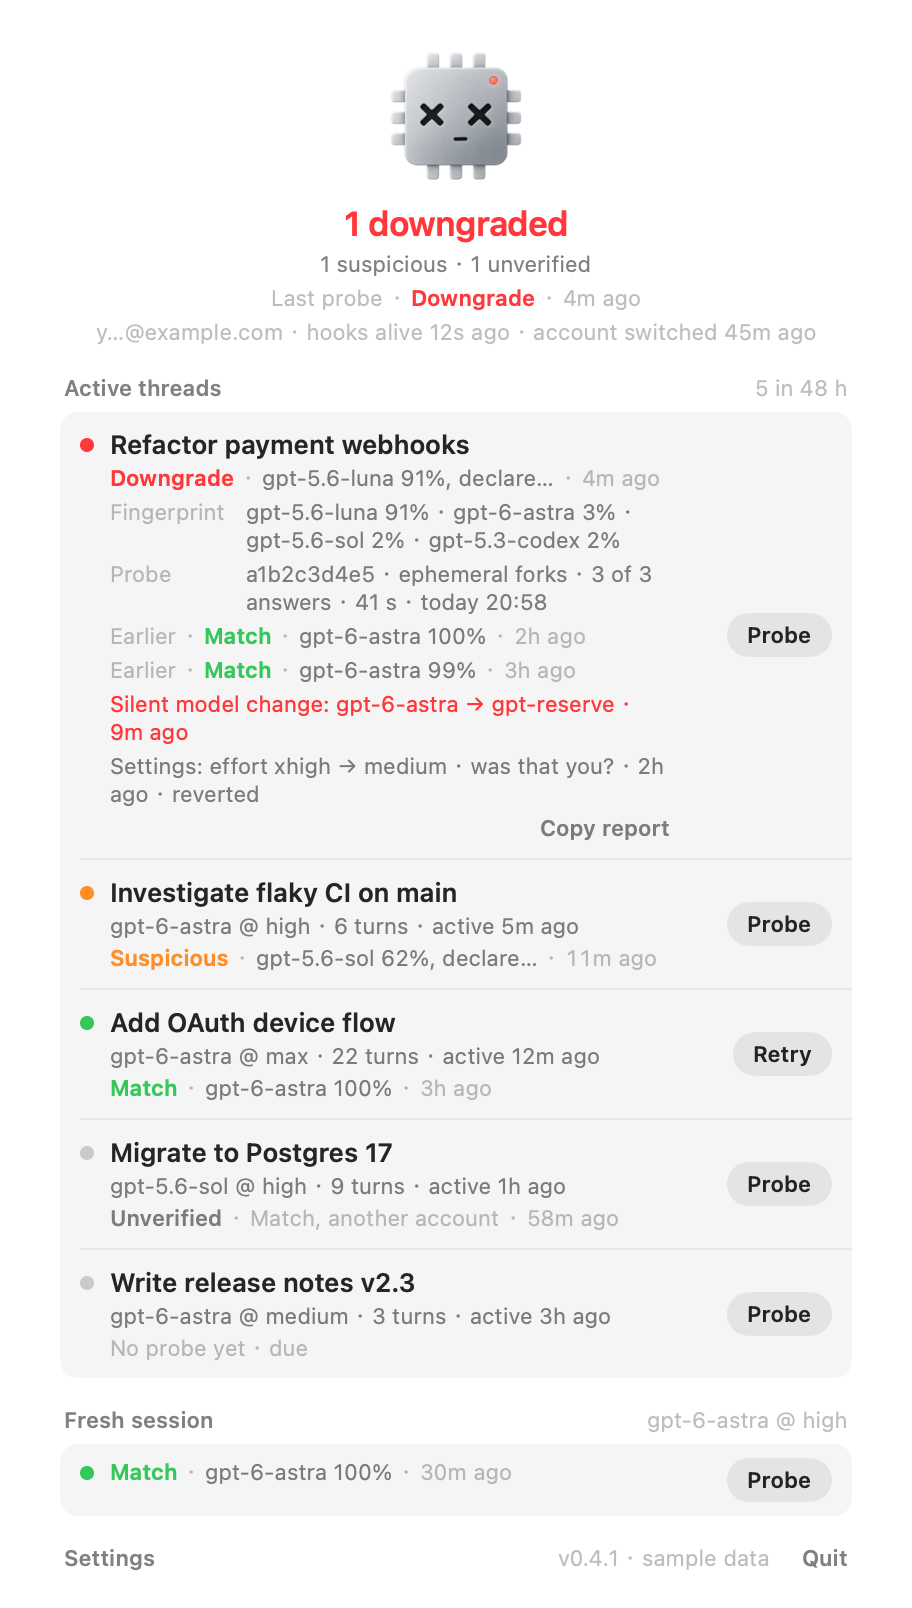
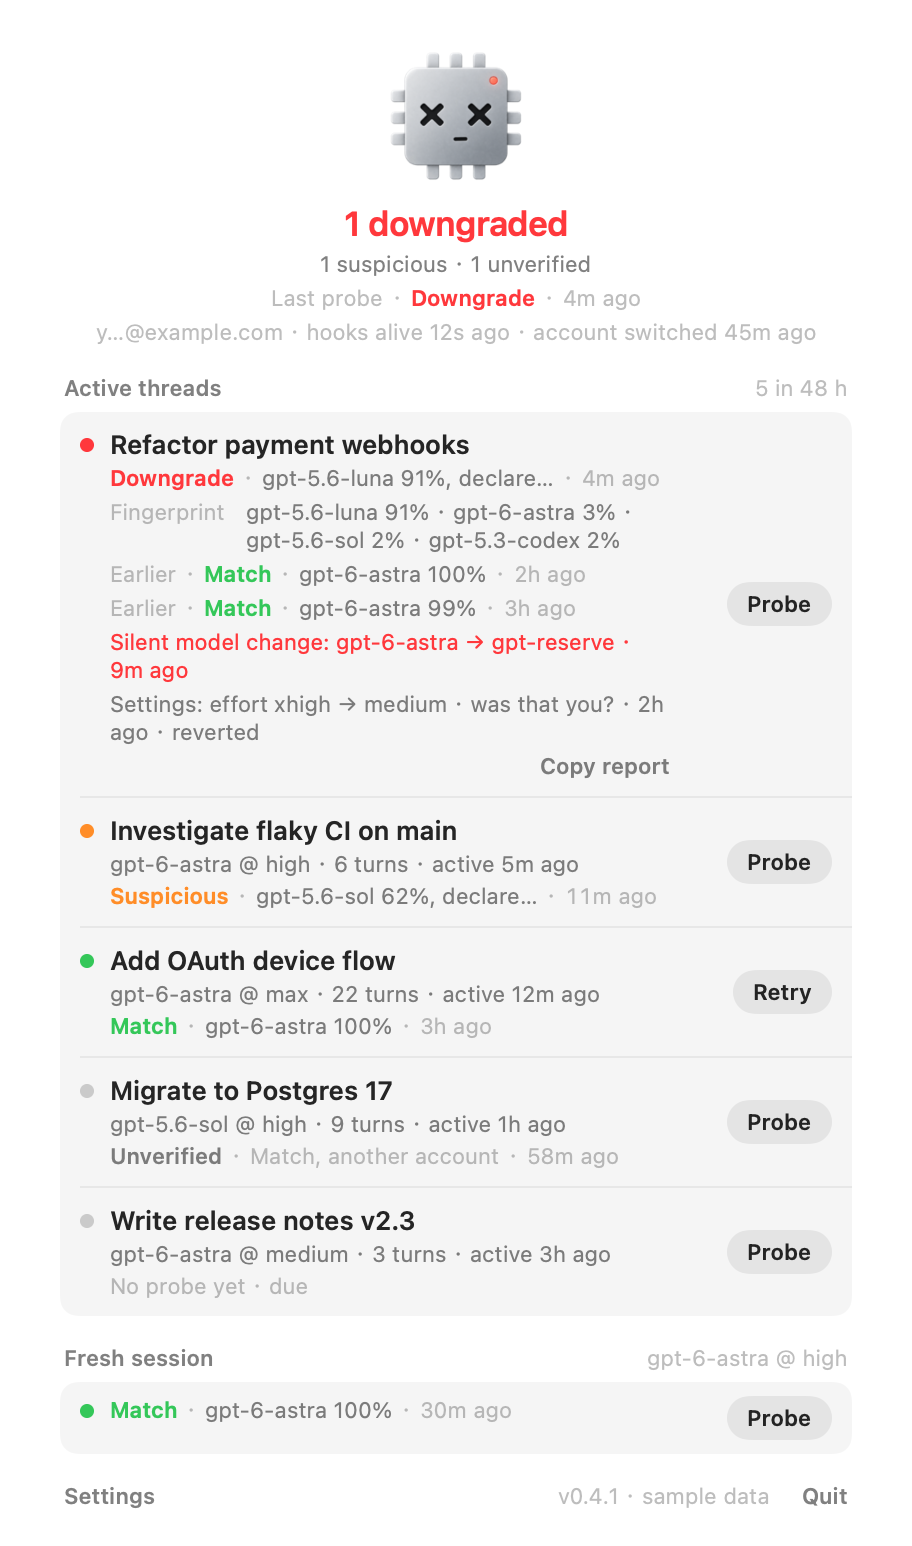
Headline is "All clear" unless something is wrong; the report drops the probe-facts line
An unverified verdict (from another account, or from before accounts were tracked) is not a problem, only not current, so it no longer becomes the headline: "All clear · 1 unverified". The report's "Probe · id · forks · answers · time" line said nothing the verdict line does not; removed.

diff --git a/macos/Sources/IsGPTNerfed/PanelView.swift b/macos/Sources/IsGPTNerfed/PanelView.swift
@@ -58,23 +58,6 @@ private func petFace(alert: Bool, warn: Bool, running: Bool) -> String {
     return "(•ᴗ•)"
 }
 
-private func parseISO(_ s: String) -> Date? {
-    let f = ISO8601DateFormatter()
-    f.formatOptions = [.withInternetDateTime]
-    return f.date(from: s) ?? { f.formatOptions = [.withInternetDateTime, .withFractionalSeconds]; return f.date(from: s) }()
-}
-
-/// "today 17:50" or "Sep 14, 17:50", in the Mac's time zone.
-private func when(_ d: Date) -> String {
-    let f = DateFormatter()
-    if Calendar.current.isDateInToday(d) {
-        f.dateFormat = "HH:mm"
-        return "today " + f.string(from: d)
-    }
-    f.dateFormat = "MMM d, HH:mm"
-    return f.string(from: d)
-}
-
 /// The chip face that matches the app icon (bundled as face-ok / face-warn / face-alert.png); text fallback.
 struct FaceView: View {
     let alert: Bool
@@ -412,7 +395,7 @@ struct SwapLines<Summary: View, Report: View>: View {
     }
 }
 
-/// The report: last verdict, fingerprint, probe facts, earlier probes, evidence with what was reverted. Text only.
+/// The report: last verdict, fingerprint, earlier probes, evidence with what was reverted. Text only.
 struct ReportLines: View {
     @Environment(Store.self) private var store
     let probes: [ProbeSummary]
@@ -431,7 +414,6 @@ struct ReportLines: View {
                 if let r = p.results, !r.isEmpty, !p.isFailure, p.staleAccount != true {
                     fact("Fingerprint", r.map { "\($0.model ?? "?") \(ProbeSummary.pct($0.probability))" }.joined(separator: " · "))
                 }
-                fact("Probe", facts(p))
                 ForEach(Array((p.errors ?? []).enumerated()), id: \.offset) { _, e in
                     fact("Problem", e, tint: .orange)
                 }
@@ -479,16 +461,6 @@ struct ReportLines: View {
         }
     }
 
-    /// "a1b2c3d4e5 · ephemeral forks · 3 of 3 answers · 41 s · today 17:50"
-    private func facts(_ p: ProbeSummary) -> String {
-        var parts = [p.id]
-        if let m = p.mode { parts.append(m == "fresh" ? "fresh session" : "ephemeral forks") }
-        if let n = p.usedOutputs, let q = p.queries, q > 0 { parts.append("\(n) of \(q) answers") }
-        if let r = p.rounds, r > 1 { parts.append("\(r) rounds") }
-        if let s = p.elapsedS { parts.append("\(Int(s.rounded())) s") }
-        if let f = p.finished, let d = parseISO(f) { parts.append(when(d)) }
-        return parts.joined(separator: " · ")
-    }
 }
 
 /// The finding with its time when that fits on one line; without the time otherwise (a lone "9m ago" on a second

diff --git a/CHANGELOG.md b/CHANGELOG.md
@@ -7,6 +7,8 @@
   else moves. Right-click for Probe, Copy report, Reveal folder. Settings is a page of its own. Fresh session sits
   below the threads; the header is the chip face with one short line per fact; the panel is a little narrower.
   The Report window is gone (the report lives in the rows; `nerfed report` remains).
+- The headline is "All clear" unless something is downgraded or suspicious; an unverified count (a verdict from
+  another account, or from before accounts were tracked) follows on the next line instead of being the headline.
 - Fixed: the SessionStart hook crashed (silently, in the fail-safe) on a keyword collision, so session starts were
   not logged.
 - A failed attempt (Invalid) is no longer shown as a verdict: the row keeps its last verdict and offers Retry; the
